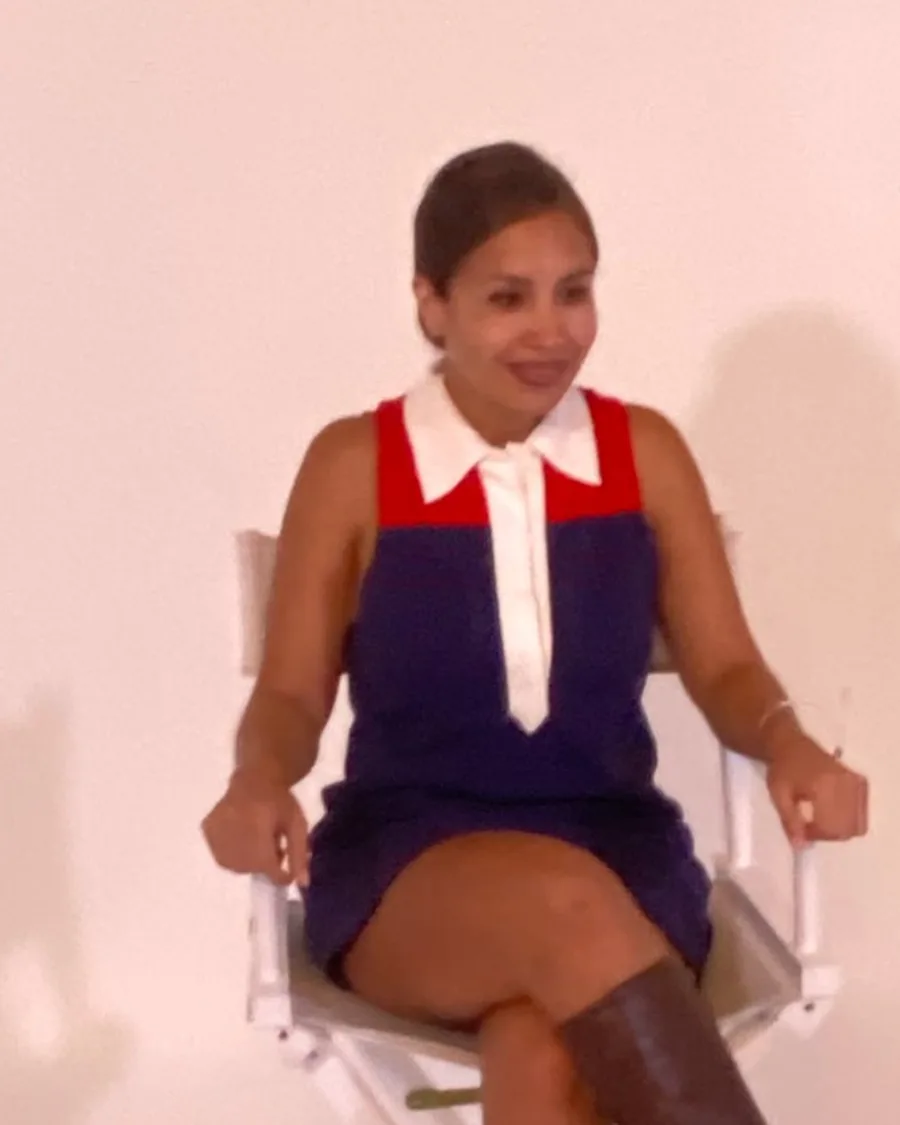
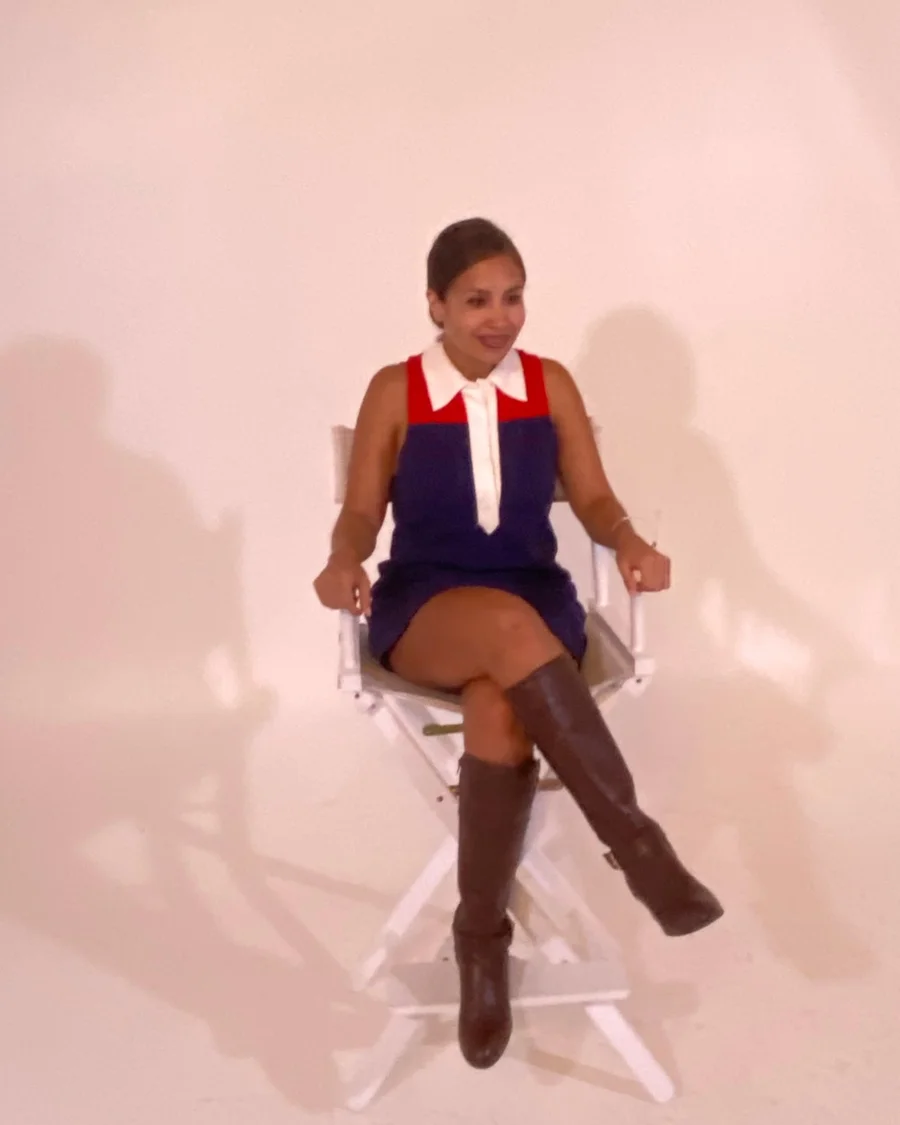
Fix loading-screen outline overlaps, gradient hero art, Raquel crop, team grid width
- Merge overlapping wordmark paths (F stem+foot, X+frame) so the stroke animation has no internal edges
- Add computer-dark.png (brand-gradient recolor) via WorkspaceArt component, swapped by theme in CSS
- Recrop Raquel headshot to the full director's-chair frame
- Team grid max-width 1400px to match navbar

Claude-Session: https://claude.ai/code/session_012pe7BidQvsWtdtBXYi2dXm

diff --git a/src/styles/LoadingScreen.scss b/src/styles/LoadingScreen.scss
@@ -43,31 +43,21 @@
                 animation: fill 0.6s 8s forwards;
             }
 
-            // lengths measured from the 1000x497 wordmark paths
+            // lengths measured from the merged 1000x497 wordmark paths
             path:nth-of-type(1) { // L
                 stroke-dasharray: 1050px;
                 stroke-dashoffset: 1050px;
                 animation: lineAnimate 2s 3s ease forwards, fill 0.6s 8s forwards;
             }
-            path:nth-of-type(2) { // F foot
-                stroke-dasharray: 300px;
-                stroke-dashoffset: 300px;
-                animation: lineAnimate 1s 4s ease forwards, fill 0.6s 8s forwards;
-            }
-            path:nth-of-type(3) { // F
-                stroke-dasharray: 1480px;
-                stroke-dashoffset: 1480px;
+            path:nth-of-type(2) { // F
+                stroke-dasharray: 1615px;
+                stroke-dashoffset: 1615px;
                 animation: lineAnimate 2s 4s ease forwards, fill 0.6s 8s forwards;
             }
-            path:nth-of-type(4) { // X
-                stroke-dasharray: 1845px;
-                stroke-dashoffset: 1845px;
-                animation: lineAnimate 2s 5s ease forwards, fill 0.6s 8s forwards;
-            }
-            path:nth-of-type(5) { // frame
-                stroke-dasharray: 5640px;
-                stroke-dashoffset: 5640px;
-                animation: lineAnimate 3s 5s ease forwards, fill 0.6s 8s forwards;
+            path:nth-of-type(3) { // X + frame
+                stroke-dasharray: 7260px;
+                stroke-dashoffset: 7260px;
+                animation: lineAnimate 3.5s 4.5s ease-in-out forwards, fill 0.6s 8s forwards;
             }
         }
 

diff --git a/src/components/Logo.jsx b/src/components/Logo.jsx
@@ -6,11 +6,12 @@ import React from 'react';
  * `variant="outline"` adds a stroke for the loading-screen draw animation.
  */
 export const LOGO_PATHS = [
+  // L
   'M128.514 368.624V86.1152H76.7944V415.734H238.083L283.674 368.624H128.514Z',
-  'M313.054 368.624L267.464 415.734H379.92V368.624H313.054Z',
-  'M626.007 133.175L593.992 86.1152H349.526V415.734H401.398V272.073H542.576V225.166H401.398V133.175H626.007Z',
-  'M792.26 243.757L905.172 86.1152H843.979L761.663 201.51L679.145 86.1152H618.003L651.74 133.225L730.865 243.807L608.581 415.734H669.723L761.663 286.308L899.043 495.112H960.184L792.26 243.757Z',
-  'M899.043 495.061H1000V0H0V496.429H873.056L842.105 447.039H49.3389V49.3896H952.383V444.253H885.669L899.043 495.061Z',
+  // F (stem + foot merged into one outline so the stroke animation has no internal edges)
+  'M593.992 86.115L349.526 86.115L349.526 368.624L313.054 368.624L267.464 415.734L349.526 415.734L379.920 415.734L401.398 415.734L401.398 272.073L542.576 272.073L542.576 225.166L401.398 225.166L401.398 133.175L626.007 133.175Z',
+  // X + frame merged for the same reason
+  'M1000.000 495.061L1000.000 0.000L0.000 0.000L0.000 496.429L873.056 496.429L842.105 447.039L49.339 447.039L49.339 49.390L952.383 49.390L952.383 444.253L926.206 444.253L792.260 243.757L905.172 86.115L843.979 86.115L761.663 201.510L679.145 86.115L618.003 86.115L651.740 133.225L730.865 243.807L608.581 415.734L669.723 415.734L761.663 286.308L899.043 495.112L960.184 495.112L960.150 495.061Z',
 ];
 
 export function LogoGradientDefs({ id = 'lfx-grad' }) {

diff --git a/src/components/pages/CaseStudyForeverCurls.jsx b/src/components/pages/CaseStudyForeverCurls.jsx
@@ -2,7 +2,7 @@ import React, { useEffect, useState } from 'react';
 import '../../styles/Header.scss';
 import '../../styles/pages/CaseStudy.scss';
 import { Link } from 'react-router-dom';
-import computer from '../../images/computer.png';
+import WorkspaceArt from '../WorkspaceArt';
 import ResultsPopup from '../ResultsPopup';
 import ContactSection from '../ContactSection';
 import { motion } from 'framer-motion';
@@ -37,7 +37,7 @@ export default function CaseStudyForeverCurls(props) {
                     <h1>Forever Curls by Leysa</h1>
                     <h2>An e-commerce hair care brand. Year one under management, compared to the year before.</h2>
                     <div className='image-wrap'>
-                        <img src={computer} alt='desktop workspace' />
+                        <WorkspaceArt />
                     </div>
                 </header>
                 <main className={loading ? '' : 'fade-in-screen'}>

diff --git a/src/components/pages/Homepage.jsx b/src/components/pages/Homepage.jsx
@@ -1,6 +1,6 @@
 import React, { useEffect } from 'react';
 import '../../styles/Header.scss';
-import computer from '../../images/computer.png';
+import WorkspaceArt from '../WorkspaceArt';
 import { motion } from 'framer-motion';
 
 import About from '../About';
@@ -43,7 +43,7 @@ export default function Homepage(props) {
                         </button>
                     </div>
                     <div className='image-wrap'>
-                        <img src={computer} alt='desktop workspace' />
+                        <WorkspaceArt />
                     </div>
                 </header>
                 <main className={loading ? '' : 'fade-in-screen'}>

diff --git a/src/components/pages/PrivacyPolicy.jsx b/src/components/pages/PrivacyPolicy.jsx
@@ -1,7 +1,7 @@
 import React, { useEffect } from 'react';
 import '../../styles/Header.scss';
 import '../../styles/pages/PrivacyPolicy.scss';
-import computer from '../../images/computer.png';
+import WorkspaceArt from '../WorkspaceArt';
 import { motion } from 'framer-motion';
 
 export default function PrivacyPolicy(props) {
@@ -35,7 +35,7 @@ export default function PrivacyPolicy(props) {
           <h1>Privacy Policy</h1>
           <h2>How we collect, use, and protect your information</h2>
           <div className="image-wrap">
-            <img src={computer} alt="desktop workspace" />
+            <WorkspaceArt />
           </div>
         </header>
 

diff --git a/src/components/pages/Terms.jsx b/src/components/pages/Terms.jsx
@@ -1,7 +1,7 @@
 import React, { useEffect } from 'react';
 import '../../styles/Header.scss';
 import '../../styles/pages/Terms.scss';
-import computer from '../../images/computer.png';
+import WorkspaceArt from '../WorkspaceArt';
 import { motion } from 'framer-motion';
 
 export default function Terms(props) {
@@ -35,7 +35,7 @@ export default function Terms(props) {
           <h1>Terms &amp; Conditions</h1>
           <h2>Rules and guidelines for using our website</h2>
           <div className="image-wrap">
-            <img src={computer} alt="desktop workspace" />
+            <WorkspaceArt />
           </div>
         </header>
 

diff --git a/src/components/pages/Subscribe.jsx b/src/components/pages/Subscribe.jsx
@@ -1,6 +1,6 @@
 import React, { useEffect } from 'react';
 import '../../styles/pages/Subscribe.scss';
-import computer from '../../images/computer.png';
+import WorkspaceArt from '../WorkspaceArt';
 import SignUpForm from '../SignUpForm';
 import { motion } from 'framer-motion';
 
@@ -38,7 +38,7 @@ export default function SubscribePage(props) {
                     <SignUpForm />
 
                     <div className='image-wrap'>
-                        <img src={computer} alt='desktop workspace' />
+                        <WorkspaceArt />
                     </div>
                 </header>
             </motion.div>

diff --git a/src/components/WorkspaceArt.jsx b/src/components/WorkspaceArt.jsx
@@ -1,0 +1,13 @@
+import React from 'react';
+import light from '../images/computer.png';
+import dark from '../images/computer-dark.png';
+
+/** Hero desk illustration — teal in light mode, brand-gradient recolor in dark mode. */
+export default function WorkspaceArt({ alt = 'desktop workspace', ...rest }) {
+  return (
+    <>
+      <img src={light} alt={alt} className='theme-light-only' {...rest} />
+      <img src={dark} alt={alt} className='theme-dark-only' {...rest} />
+    </>
+  );
+}

diff --git a/src/styles/App.scss b/src/styles/App.scss
@@ -298,3 +298,10 @@ button {
     border-top: 1px solid var(--border-subtle);
   }
 }
+
+// theme-conditional elements
+.theme-dark-only { display: none; }
+:root[data-theme="dark"] {
+  .theme-light-only { display: none; }
+  .theme-dark-only { display: inline; }
+}

diff --git a/src/styles/pages/Team.scss b/src/styles/pages/Team.scss
@@ -20,7 +20,7 @@
     }
 
     .team-grid {
-        max-width: 1200px;
+        max-width: 1400px; // matches the navbar content width
         margin: 48px auto 0;
         padding: 0 20px;
         display: grid;
